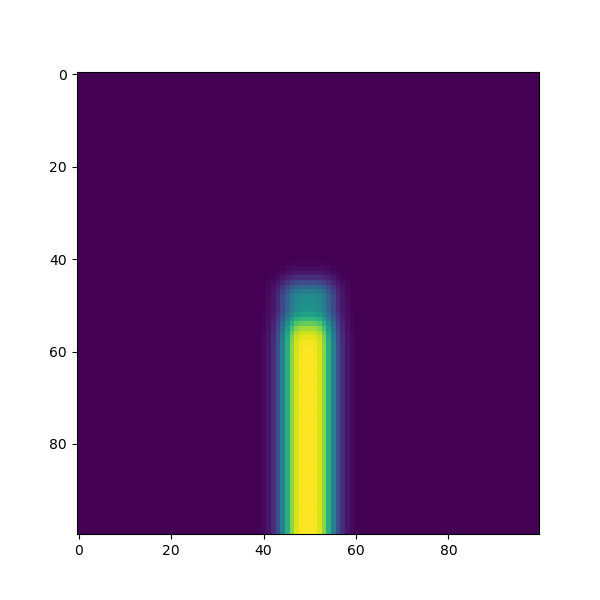
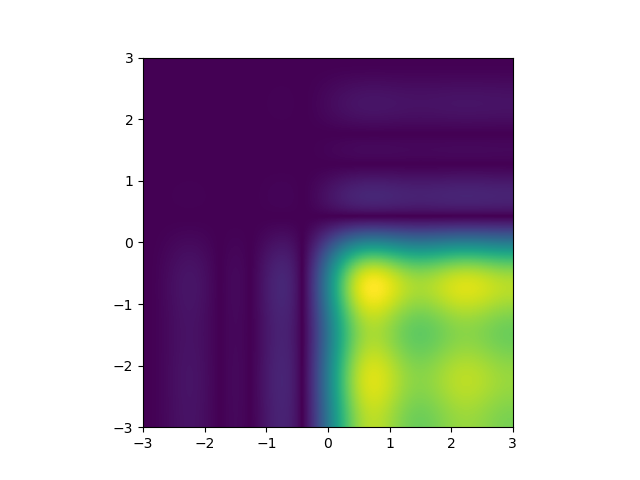
add rect

diff --git a/additional task.py b/additional task.py
@@ -13,19 +13,24 @@ import scipy.special as scp
 import numpy as np
 import matplotlib.pyplot as plt
 
+T = 1
+
+def rect(x, T):
+    return abs(x) < T / 2.0
+
 
 # полином Эрмита, n - степень
 def hermite(n, x):
-    H_n= scp.eval_hermite(n, x)
+    H_n= scp.eval_hermite(n, x) * np.exp(-x**2)
     return H_n
 
 
 # подсчёт функции
 def integral_function(x, sigma, u, n_herm):
-    exp_f = cmath.exp(- x ** 2 / sigma ** 2)
+    exp_f = 1 #cmath.exp(- x ** 2 / sigma ** 2)
     exp_K = cmath.exp(- 1j * 2 * np.pi * x * u)
-    n_hermite = hermite(n_herm, x)
-    return exp_f * exp_K * n_hermite
+    #n_hermite = hermite(n_herm, x)
+    return exp_f * exp_K * rect(x, T)
 
 
 # численный подсчёт
@@ -86,23 +91,21 @@ def chart(conversion_points, a, b, size):
     y = np.linspace(float(a), float(b), 100)
     amplitude_conv = amplitude(conversion_points, size)
     fig, ax = plt.subplots()
-    ax.imshow(amplitude_conv)
-    fig.set_figwidth(6)
-    fig.set_figheight(6)
+    ax.imshow(amplitude_conv, extent=(a,b,a,b))
+
     plt.savefig("амплитуда.png")
     plt.show()
     phase_con = phase(conversion_points, size)
     fig, ax = plt.subplots()
-    ax.imshow(phase_con)
-    fig.set_figwidth(6)
-    fig.set_figheight(6)
+    ax.imshow(phase_con, extent=(a,b,a,b))
+
     plt.savefig("фаза.png")
     plt.show()
 
 
 if __name__ == '__main__':
     a, b = -3, 3
-    n, m = 100, 100
+    n, m = 1000, 1000
     sigma = 1
     n_herm_x, n_herm_y = 2, 3
     u, v = -4, 4
